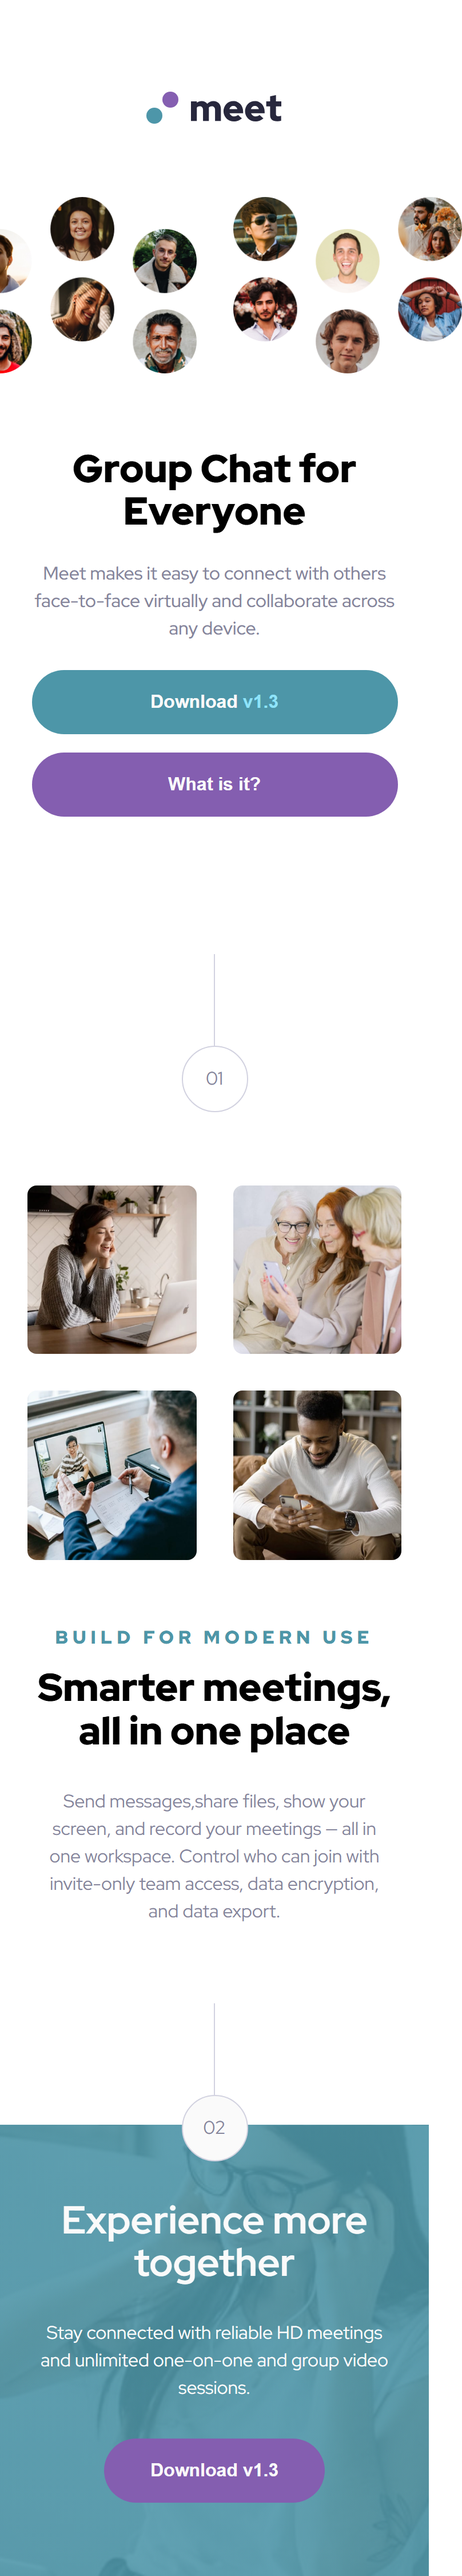
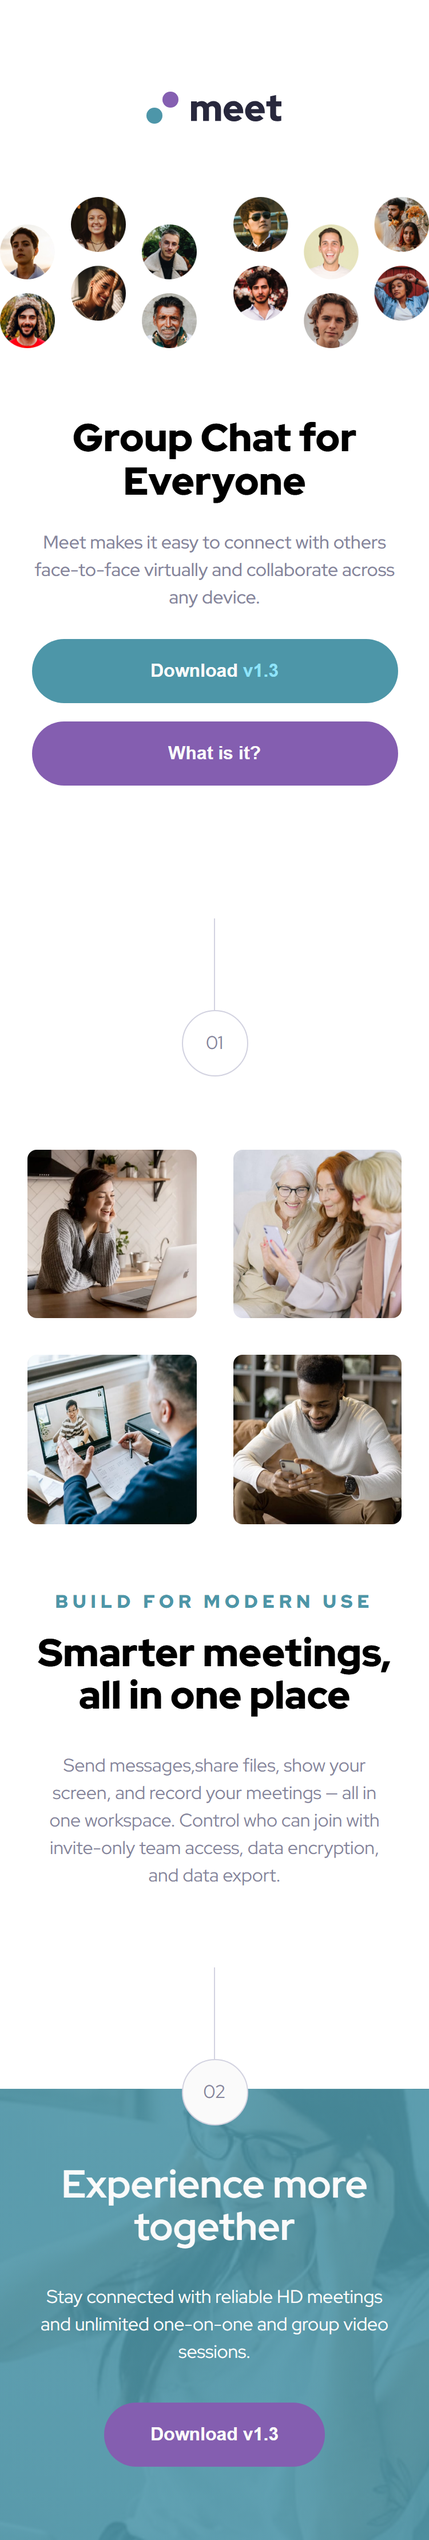
update style.css and README.md

diff --git a/style.css b/style.css
@@ -373,8 +373,9 @@ main {
 
 @media (375px <= width <768px) {
   .hero {
+    width: 100%;
     display: grid;
-    grid-template-columns: 200px 200px;
+    grid-template-columns: 1fr 1fr;
     grid-template-areas:
       "hero-left  hero-right"
       "hero_content hero_content";
@@ -387,7 +388,7 @@ main {
     display: flex;
     grid-area: hero_content;
     text-align: center;
-    padding: var(--space-400);
+    padding:1.71875rem;
     margin-inline: auto;
     gap: var(--space-300);
   }
@@ -474,6 +475,8 @@ main {
     color: var(--slate-600);
   }
   .footer-cta {
+    max-width: 100%;
+    margin-inline:auto
     height: auto;
     display: flex;
     flex-direction: column;
